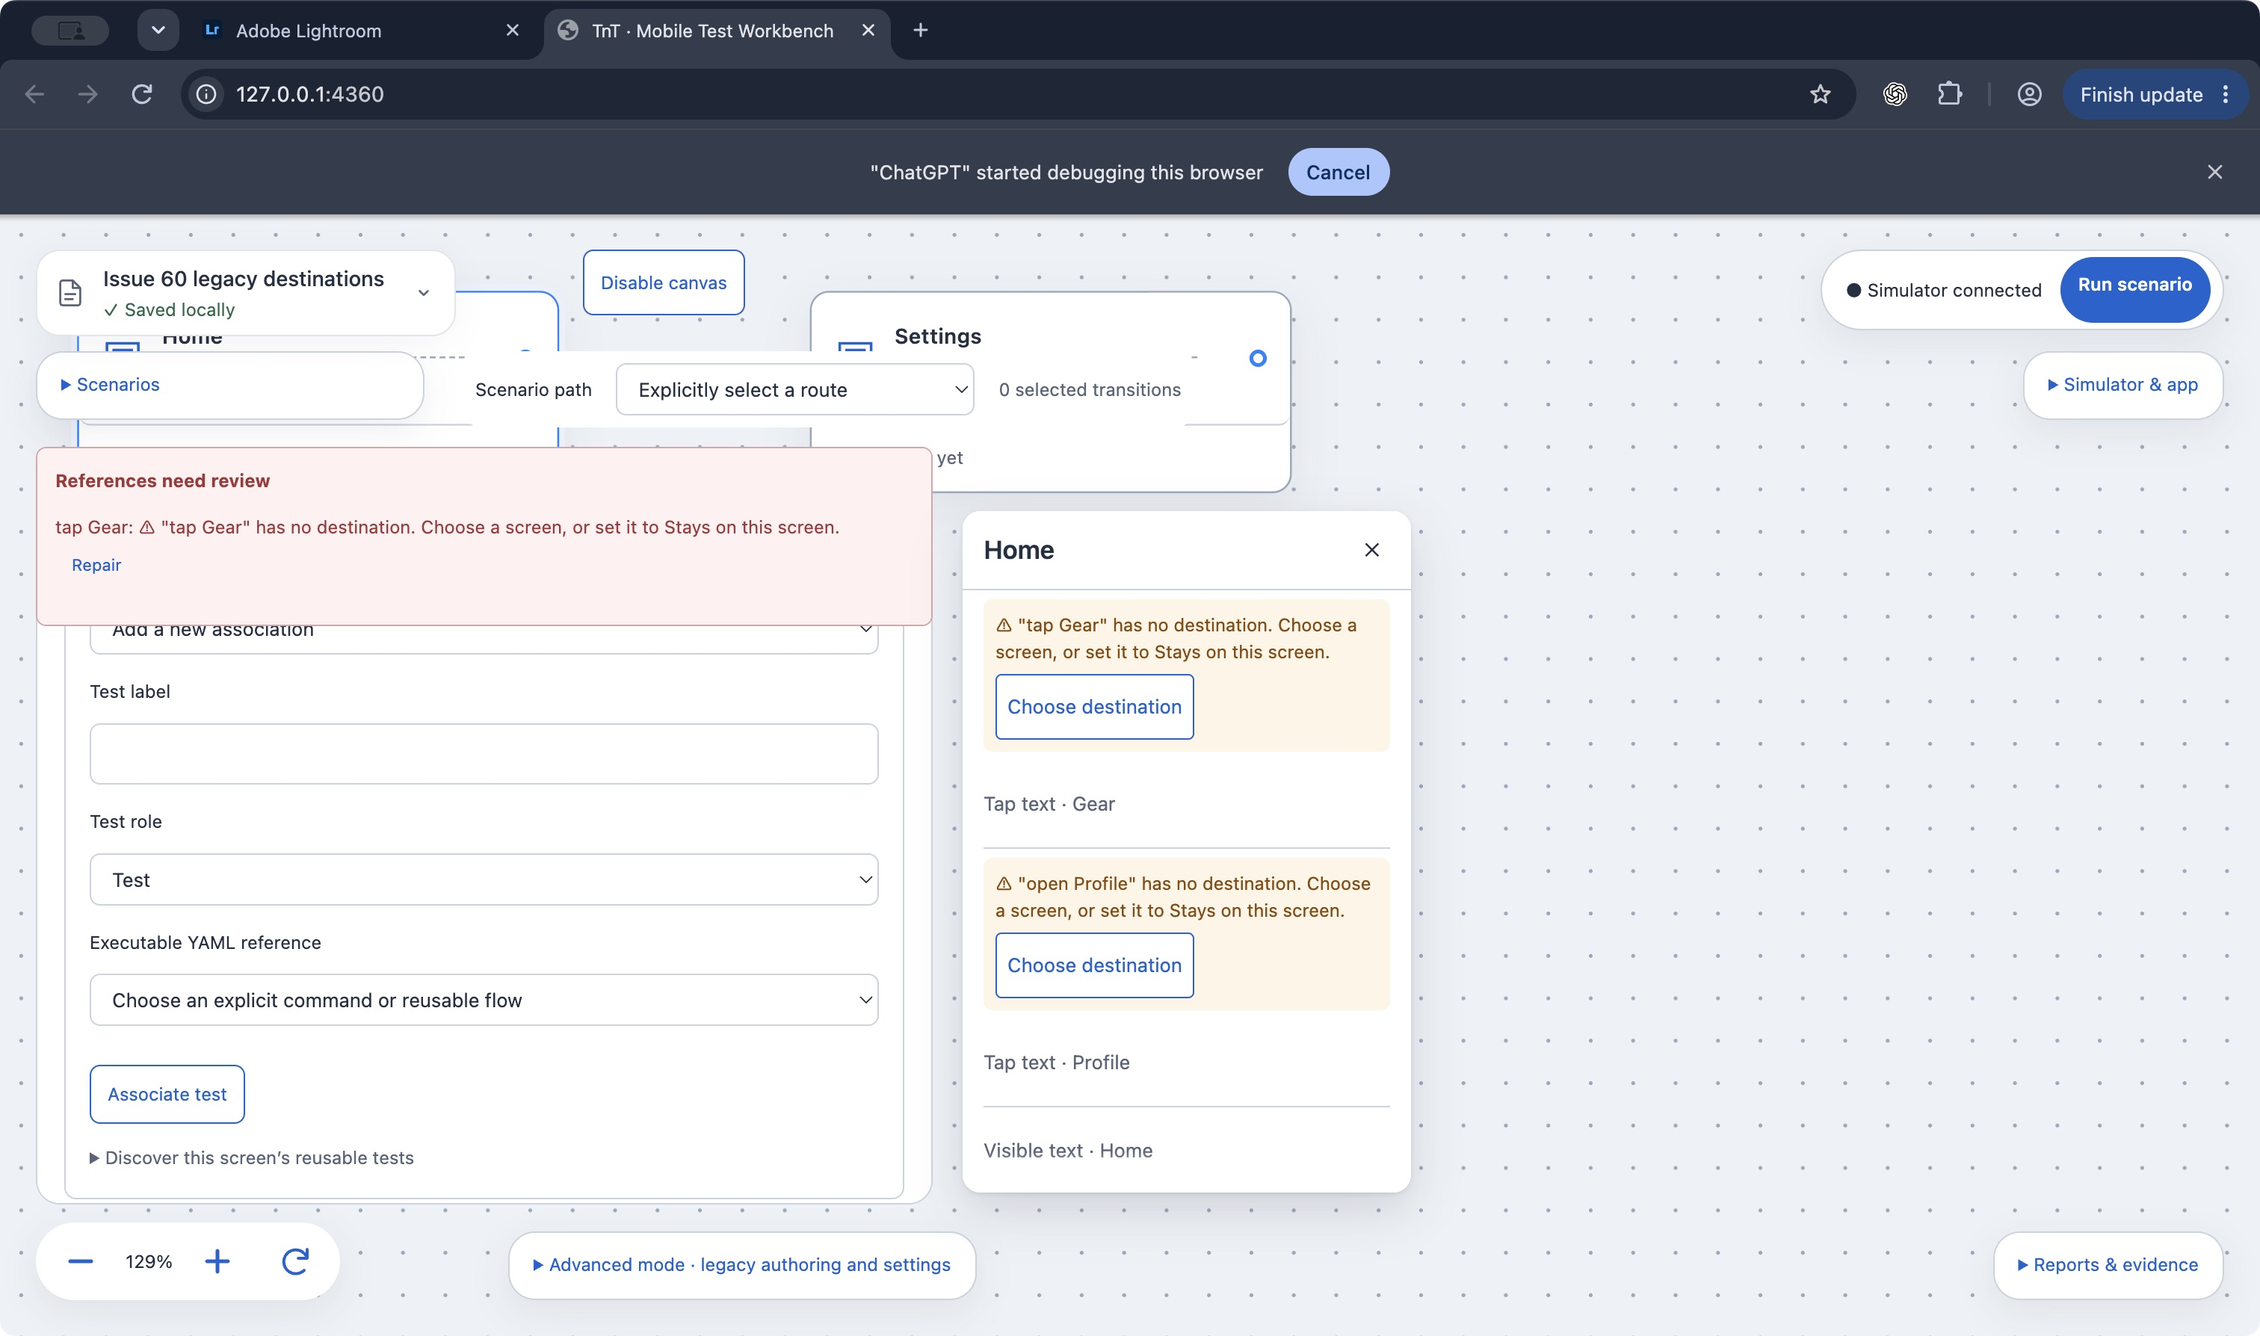
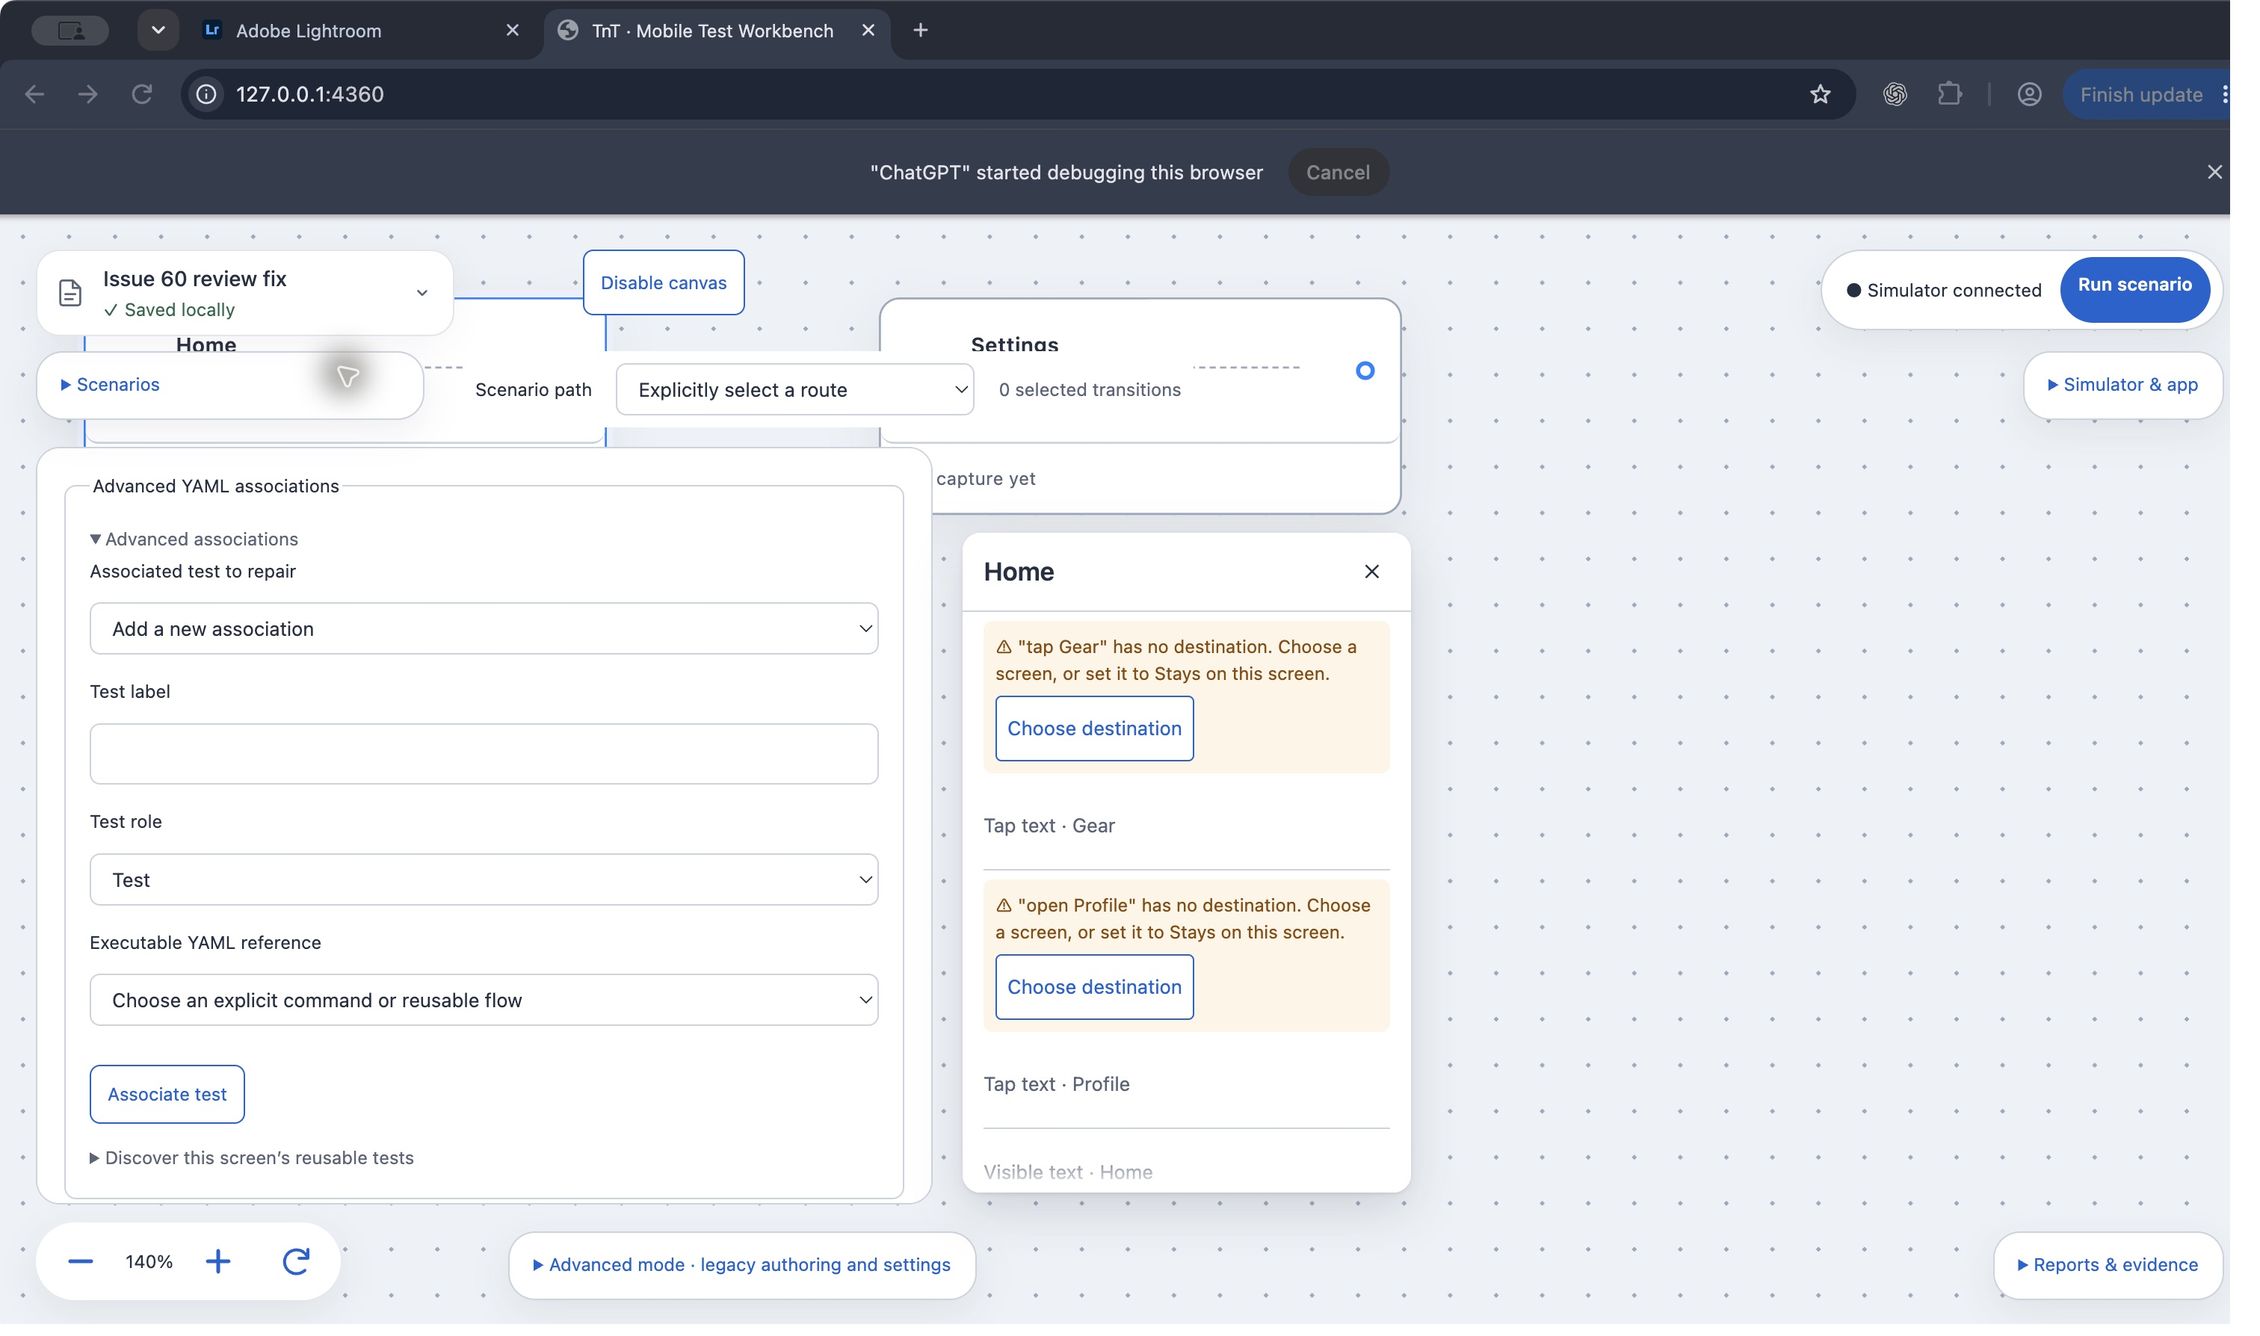
fix: keep destination warnings out of reference error surfaces

diff --git a/src/canvas.tsx b/src/canvas.tsx
@@ -218,8 +218,8 @@ export function CanvasEditor({graph,onChange,catalog,diagnostics,pathId,onPathCh
  const screen=graph?.screens.find(screen=>screen.id===selected);const path=graph?.paths.find(path=>path.id===pathId);
  const entry=catalog[Number(referenceIndex)];
  const apiId=useId();
- const displayDiagnostics=diagnostics.map(item=>item.code==='missing-destination'?{...item,ownerId:item.actionId,detail:`⚠ "${graph?.screens.flatMap(screen=>screen.tests).find(test=>test.id===item.actionId)?.label??item.actionId}" has no destination. Choose a screen, or set it to Stays on this screen.`}:item);
- const liveDiagnostics=graph?displayDiagnostics.filter(item=>item.code!=='missing-destination'||missingDestination(item.actionId!)):displayDiagnostics;
+ const referenceDiagnostics=diagnostics.filter(item=>item.code!=='missing-destination');
+ const liveDiagnostics=graph?diagnostics.filter(item=>item.code!=='missing-destination'||missingDestination(item.actionId!)):diagnostics;
  const seenPath=useRef(pathId);
  useEffect(()=>{if(seenPath.current===pathId)return;seenPath.current=pathId;setNewStep(undefined);setSelectedVisit('');setSelected('');setRepairTarget(undefined);},[pathId]);
  useEffect(()=>{
@@ -479,7 +479,7 @@ export function CanvasEditor({graph,onChange,catalog,diagnostics,pathId,onPathCh
  async function image(screenId:string,file?:File){if(!graph||!file)return;try{if(!['image/png','image/jpeg'].includes(file.type)||file.size>250_000)throw new Error('Use a PNG/JPEG reference up to 250 KB.');const data=await new Promise<string>((resolve,reject)=>{const reader=new FileReader();reader.onload=()=>resolve(String(reader.result));reader.onerror=()=>reject(new Error('Reference image could not be read.'));reader.readAsDataURL(file);});const latest=currentGraph.current;if(!latest||!latest.screens.some(item=>item.id===screenId))return;onChange({...latest,screens:latest.screens.map(item=>item.id===screenId?{...item,referenceScreenshot:data}:item)});setError('');}catch(error){setError((error as Error).message);}}
  const selectedOperationIds=graph&&path?.screenId?new Set(routeVisits(graph,path).flatMap((_visit,index)=>visitOperations(graph!,path,index))):undefined;
  const boardGraph=graph&&scenarioMode&&scenarioId?{...graph,screens:graph.screens.map(screen=>({...screen,tests:screen.tests.filter(test=>!isAuthored(test)||(selectedOperationIds?selectedOperationIds.has(test.id):visibleOperation(test)))}))}:graph;
- const visibleDiagnostics=liveDiagnostics.filter(item=>!scenarioMode||!scenarioId||['yaml','flows','automation',pathId].includes(item.ownerId)||graph?.screens.some(screen=>screen.id===item.ownerId||screen.tests.some(test=>test.id===item.ownerId&&visibleOperation(test)))||path?.edgeIds.includes(item.ownerId));
+ const visibleDiagnostics=referenceDiagnostics.filter(item=>!scenarioMode||!scenarioId||['yaml','flows','automation',pathId].includes(item.ownerId)||graph?.screens.some(screen=>screen.id===item.ownerId||screen.tests.some(test=>test.id===item.ownerId&&visibleOperation(test)))||path?.edgeIds.includes(item.ownerId));
  return <section className="canvas-editor" aria-labelledby="canvas-heading"><div className="label-row"><div><h2 id="canvas-heading">Screen test canvas</h2><p className="field-hint">Add nodes on the canvas. Select a node, or press Enter on it, to edit its actions and checks in the inspector. Right-click a node for info.</p></div>{!scenarioMode&&<button className="confirm" disabled={disabled} onClick={()=>{onChange(graph?undefined:emptyCanvas());onPathChange('');}}>{graph?'Disable canvas':'Create screen canvas'}</button>}</div>
  {graph&&<>
  {!scenarioMode&&<div className="canvas-route-bar"><label htmlFor={apiId+'-path'}>Scenario path</label><select id={apiId+'-path'} value={pathId} disabled={disabled} onChange={event=>onPathChange(event.target.value)}><option value="">Explicitly select a route</option>{graph.paths.map(path=><option key={path.id} value={path.id}>{path.name}</option>)}</select><span>{path?.edgeIds.length??0} selected transitions</span></div>}
@@ -496,7 +496,7 @@ export function CanvasEditor({graph,onChange,catalog,diagnostics,pathId,onPathCh
  <details open={!scenarioMode}><summary>Advanced associations</summary><label htmlFor={apiId+'-repair'}>Associated test to repair</label><select id={apiId+'-repair'} value={repairTest} onChange={event=>{setRepairTest(event.target.value);const test=screen.tests.find(test=>test.id===event.target.value);if(test){setTestLabel(test.label);setRole(test.role);}setReferenceIndex('');}}><option value="">Add a new association</option>{screen.tests.map(test=><option key={test.id} value={test.id}>{canvasTestLabel(test)}</option>)}</select>
  <label htmlFor={apiId+'-test-label'}>Test label</label><input id={apiId+'-test-label'} value={testLabel} onChange={event=>setTestLabel(event.target.value)} maxLength={120}/><label htmlFor={apiId+'-role'}>Test role</label><select id={apiId+'-role'} value={role} onChange={event=>setRole(event.target.value as CanvasTest['role'])}><option value="test">Test</option><option value="action">Triggering action</option><option value="assertion">Destination / shared assertion</option><option value="setup">Setup reference</option><option value="handler">Handler reference</option></select>
  <label htmlFor={apiId+'-yaml-reference'}>Executable YAML reference</label><select id={apiId+'-yaml-reference'} value={referenceIndex} onChange={event=>{setReferenceIndex(event.target.value);const chosen=catalog[Number(event.target.value)];if(chosen?.kind==='setup')setRole('setup');if(chosen?.kind==='handler')setRole('handler');}}><option value="">Choose an explicit command or reusable flow</option>{catalog.map((entry,index)=><option key={entry.kind+entry.file+(entry.index??'')+(entry.actionId??'')} value={index}>{entry.label}{entry.assertion?' · assertion':''}</option>)}</select>{referenceIndex!==''&&entry&&<pre>{entry.preview}</pre>}<button className="confirm" onClick={()=>perform(associate)}>{repairTest?'Explicitly relink test':'Associate test'}</button>
- <details><summary>Discover this screen’s reusable tests</summary>{screen.tests.map(test=><div key={test.id}><strong>{test.label}</strong><p>{test.role} · {referenceLabel(test.reference)}</p>{displayDiagnostics.filter(item=>item.ownerId===test.id).map((item,index)=><p className="reference-error" key={index}>{item.detail}</p>)}</div>)}</details></details>
+ <details><summary>Discover this screen’s reusable tests</summary>{screen.tests.map(test=><div key={test.id}><strong>{test.label}</strong><p>{test.role} · {referenceLabel(test.reference)}</p>{referenceDiagnostics.filter(item=>item.ownerId===test.id).map((item,index)=><p className="reference-error" key={index}>{item.detail}</p>)}</div>)}</details></details>
  </>}
  </fieldset>
  {!scenarioMode&&<><fieldset disabled={disabled}><legend>Connect expected screens</legend><label htmlFor={apiId+'-from'}>Source screen</label><select id={apiId+'-from'} value={from} onChange={event=>{setFrom(event.target.value);setAction('');}}><option value="">Choose source</option>{graph.screens.map(screen=><option key={screen.id} value={screen.id}>{screen.title}</option>)}</select><label htmlFor={apiId+'-action'}>Triggering YAML test</label><select id={apiId+'-action'} value={action} onChange={event=>setAction(event.target.value)}><option value="">Choose source test</option>{graph.screens.find(screen=>screen.id===from)?.tests.filter(test=>!test.check).map(test=><option key={test.id} value={test.id}>{canvasTestLabel(test)}</option>)}</select>

diff --git a/tests/missing-destination-ui.test.ts b/tests/missing-destination-ui.test.ts
@@ -21,13 +21,14 @@ function workspace(){
  return {yaml,canvas:refreshChecks(canvas,yaml)};
 }
 
-async function mount(scenarioMode:boolean){
+async function mount(scenarioMode:boolean,brokenReference=false){
  const dom=new JSDOM('<div id="root"></div>');
  const keys=['window','document','HTMLElement','Event','ResizeObserver','IS_REACT_ACT_ENVIRONMENT'];const descriptors=keys.map(key=>[key,Object.getOwnPropertyDescriptor(globalThis,key)] as const);
  class ResizeObserver{observe(){}disconnect(){}}
  for(const key of keys)Object.defineProperty(globalThis,key,{value:key==='IS_REACT_ACT_ENVIRONMENT'?true:key==='ResizeObserver'?ResizeObserver:Reflect.get(dom.window,key),configurable:true});
  const {createRoot}=await import('react-dom/client');const root=createRoot(dom.window.document.getElementById('root')!);
  const state={...workspace()};
+ if(brokenReference)state.canvas.screens[0].tests.push({id:'stale',label:'Broken reference',role:'assertion',reference:{...reference,index:999,fingerprint:'missing'}});
  function Host(){
   const [graph,setGraph]=useState(state.canvas);const [yaml,setYaml]=useState(state.yaml);
   state.canvas=graph;state.yaml=yaml;
@@ -55,6 +56,8 @@ for(const scenarioMode of [false,true])test(`each legacy start-only step without
   assert.equal(page.row('gear').querySelector('.destination-warning p')?.textContent,warning('tap Gear'));
   assert.equal(page.row('profile').querySelector('.destination-warning p')?.textContent,warning('open Profile'));
   assert.equal(page.row('home-ready').querySelector('.destination-warning'),null);
+  assert.equal(page.document.querySelector('.notice.error,[role="alert"],.reference-error')===null,true);
+  assert.equal(page.document.querySelector('button[aria-label="Repair tap Gear"],button[aria-label="Repair open Profile"]'),null);
  }finally{await page.close();}
 });
 
@@ -85,6 +88,22 @@ for(const scenarioMode of [false,true])test(`the warning clears once Stays on th
   assert.equal(inspectCanvas(page.state.canvas,page.state.yaml).diagnostics.length,0);
   const projected=projectCanvasRoute(page.state.canvas,page.state.yaml,{},'route');
   assert.deepEqual(projected.canvas.execution!.occurrences.map(item=>[item.testId,item.edgeId??null]),[['gear',null],['home-ready',null],['profile',page.state.canvas.edges[0].id],['settings-ready',null]]);
+ }finally{await page.close();}
+});
+
+for(const scenarioMode of [false,true])test(`missing destinations stay amber while genuine stale references retain their error and Repair action (${scenarioMode?'contextual':'legacy'} canvas)`,async()=>{
+ const page=await mount(scenarioMode,true);
+ try{
+  assert.deepEqual(page.warnings(),[warning('tap Gear'),warning('open Profile')]);
+  const alert=page.document.querySelector('[role="alert"]')!;
+  assert.ok(alert);
+  assert.match(alert.textContent!,/Broken reference.*Broken or stale YAML reference/);
+  assert.doesNotMatch(alert.textContent!,/has no destination|tap Gear|open Profile/);
+  assert.ok(alert.querySelector('button[aria-label="Repair Broken reference"]'));
+  assert.equal(page.document.querySelector('button[aria-label="Repair tap Gear"],button[aria-label="Repair open Profile"]'),null);
+  const referenceErrors=[...page.document.querySelectorAll('.reference-error')];
+  assert.equal(referenceErrors.length,scenarioMode?0:1);
+  for(const referenceError of referenceErrors){assert.match(referenceError.textContent!,/Broken or stale YAML reference/);assert.doesNotMatch(referenceError.textContent!,/has no destination/);}
  }finally{await page.close();}
 });
 

diff --git a/docs/issue60-verification.md b/docs/issue60-verification.md
@@ -6,15 +6,15 @@ Based on main `006024a` (includes #59, #45, #49 and #46). Original Cursor branch
 
 The server emits exactly `{code: 'missing-destination', actionId}` for each unconnected action omitted from a legacy start-only route. Existing diagnostics retain their existing shape. Server execution rejects the route with a machine-readable `missing-destination:<id>` error before Maestro. The warning's wording and step-label lookup live in `src/canvas.tsx`.
 
-Each affected row shows its own label and the agreed warning copy. Choose destination expands that row, focuses its Destination select and invokes its native picker. Selecting a screen or Stays on this screen removes the warning. Merged scenario visit draft/edit/reorder/Undo behavior remains intact.
+Missing-destination diagnostics are excluded from both the red reference alert and reusable-test reference errors. Genuine stale YAML references retain their red error and Repair action. Each affected row shows its own label and the agreed warning copy. Choose destination expands that row, focuses its Destination select and invokes its native picker. Selecting a screen or Stays on this screen removes the warning. Merged scenario visit draft/edit/reorder/Undo behavior remains intact.
 
 One exception file, `50-legacy-missing-destination.patch`, records the protected server changes (`server/canvas.ts` and `server/canvas-route.ts`), without any shared changes or checker changes. The existing literal-Back exception is unchanged. The ordinary `server/scenarios.ts` change keeps package diagnostics machine-readable; it is outside the checker-protected file list.
 
 ## Validation
 
 - `npm run typecheck`: pass.
-- `npm test`: 340/340 pass on the rebased implementation.
-- Focused warning/server tests: 11/11 pass, including two own labels, exact diagnostic shape, picker invocation while focused, both destination choices and pre-Maestro rejection.
+- `npm test`: 342/342 pass on the rebased implementation.
+- Focused warning/server tests: 13/13 pass, including two own labels, exact diagnostic shape, picker invocation while focused, both destination choices and pre-Maestro rejection.
 - Mutation: remove the missing-destination emission in `inspectCanvas`; both actual CanvasEditor own-label warning tests fail (exit 1, expected two warnings versus none). Restore emission; focused tests pass.
 - `GOLDEN_UPDATE=1 node --import tsx --test tests/golden-canvas.test.ts`: two runs, each 20/20 pass. No tracked golden diff after either run, and the two recorded golden diffs are identical.
 - `npm run check:canvas-contract`: pass, 2 exception patches. Uses the current main checker; no duplication of #59/#70 work.
@@ -26,7 +26,7 @@ An earlier full run before rebase failed the known `Missing screen for tap-gear`
 
 ## Browser evidence
 
-Chrome on the isolated workbench at port 4360, with its own `.tnt` store:
+Chrome (warning/discovery) and the in-app browser (focus ring) on the isolated workbench at port 4360, with its own `.tnt` store:
 
 1. Home contains two unconnected steps, `tap Gear` and `open Profile`; each warning uses its own label.
 2. Click Gear's Choose destination: native accessibility state reports Action 1 destination, an open menu (Choose destination screen / Stays on this screen / Home / Settings), and the selected menu item as focused. The screenshot captures the blue focus ring.
@@ -34,7 +34,11 @@ Chrome on the isolated workbench at port 4360, with its own `.tnt` store:
 4. Click Profile's Choose destination: Action 2 destination's native menu opens. Select Settings: the remaining warning and reference alert disappear, and the Home-to-Settings connection appears.
 
 ![Two warning rows](evidence/issue-60/warning.png)
-![Immediately after Choose destination: expanded row and blue focus ring](evidence/issue-60/destination-open.png)
+![Immediately after Choose destination: expanded row and blue focus ring](evidence/issue-60/destination-open.jpg)
+
+Review regression: adding an actual stale YAML association alongside the two missing destinations retains its red error and Repair button but adds neither missing destination to that alert. The same regression fails on the prior head with both warning sentences in the red banner. Browser inspection of the expanded reusable-test discovery confirms no duplicated warning there.
+
+![Reusable-test discovery without duplicate destination errors](evidence/issue-60/discovery.png)
 
 **Capture limitation:** the native macOS menu is a separate overlay omitted by the available application/window screenshot API, although its open menu and focused item are exposed by accessibility. These are real screenshots, without a fabricated menu overlay. Independent Cursor design review should confirm the native menu visually and provide an overlay-inclusive capture if its environment supports it.
 
